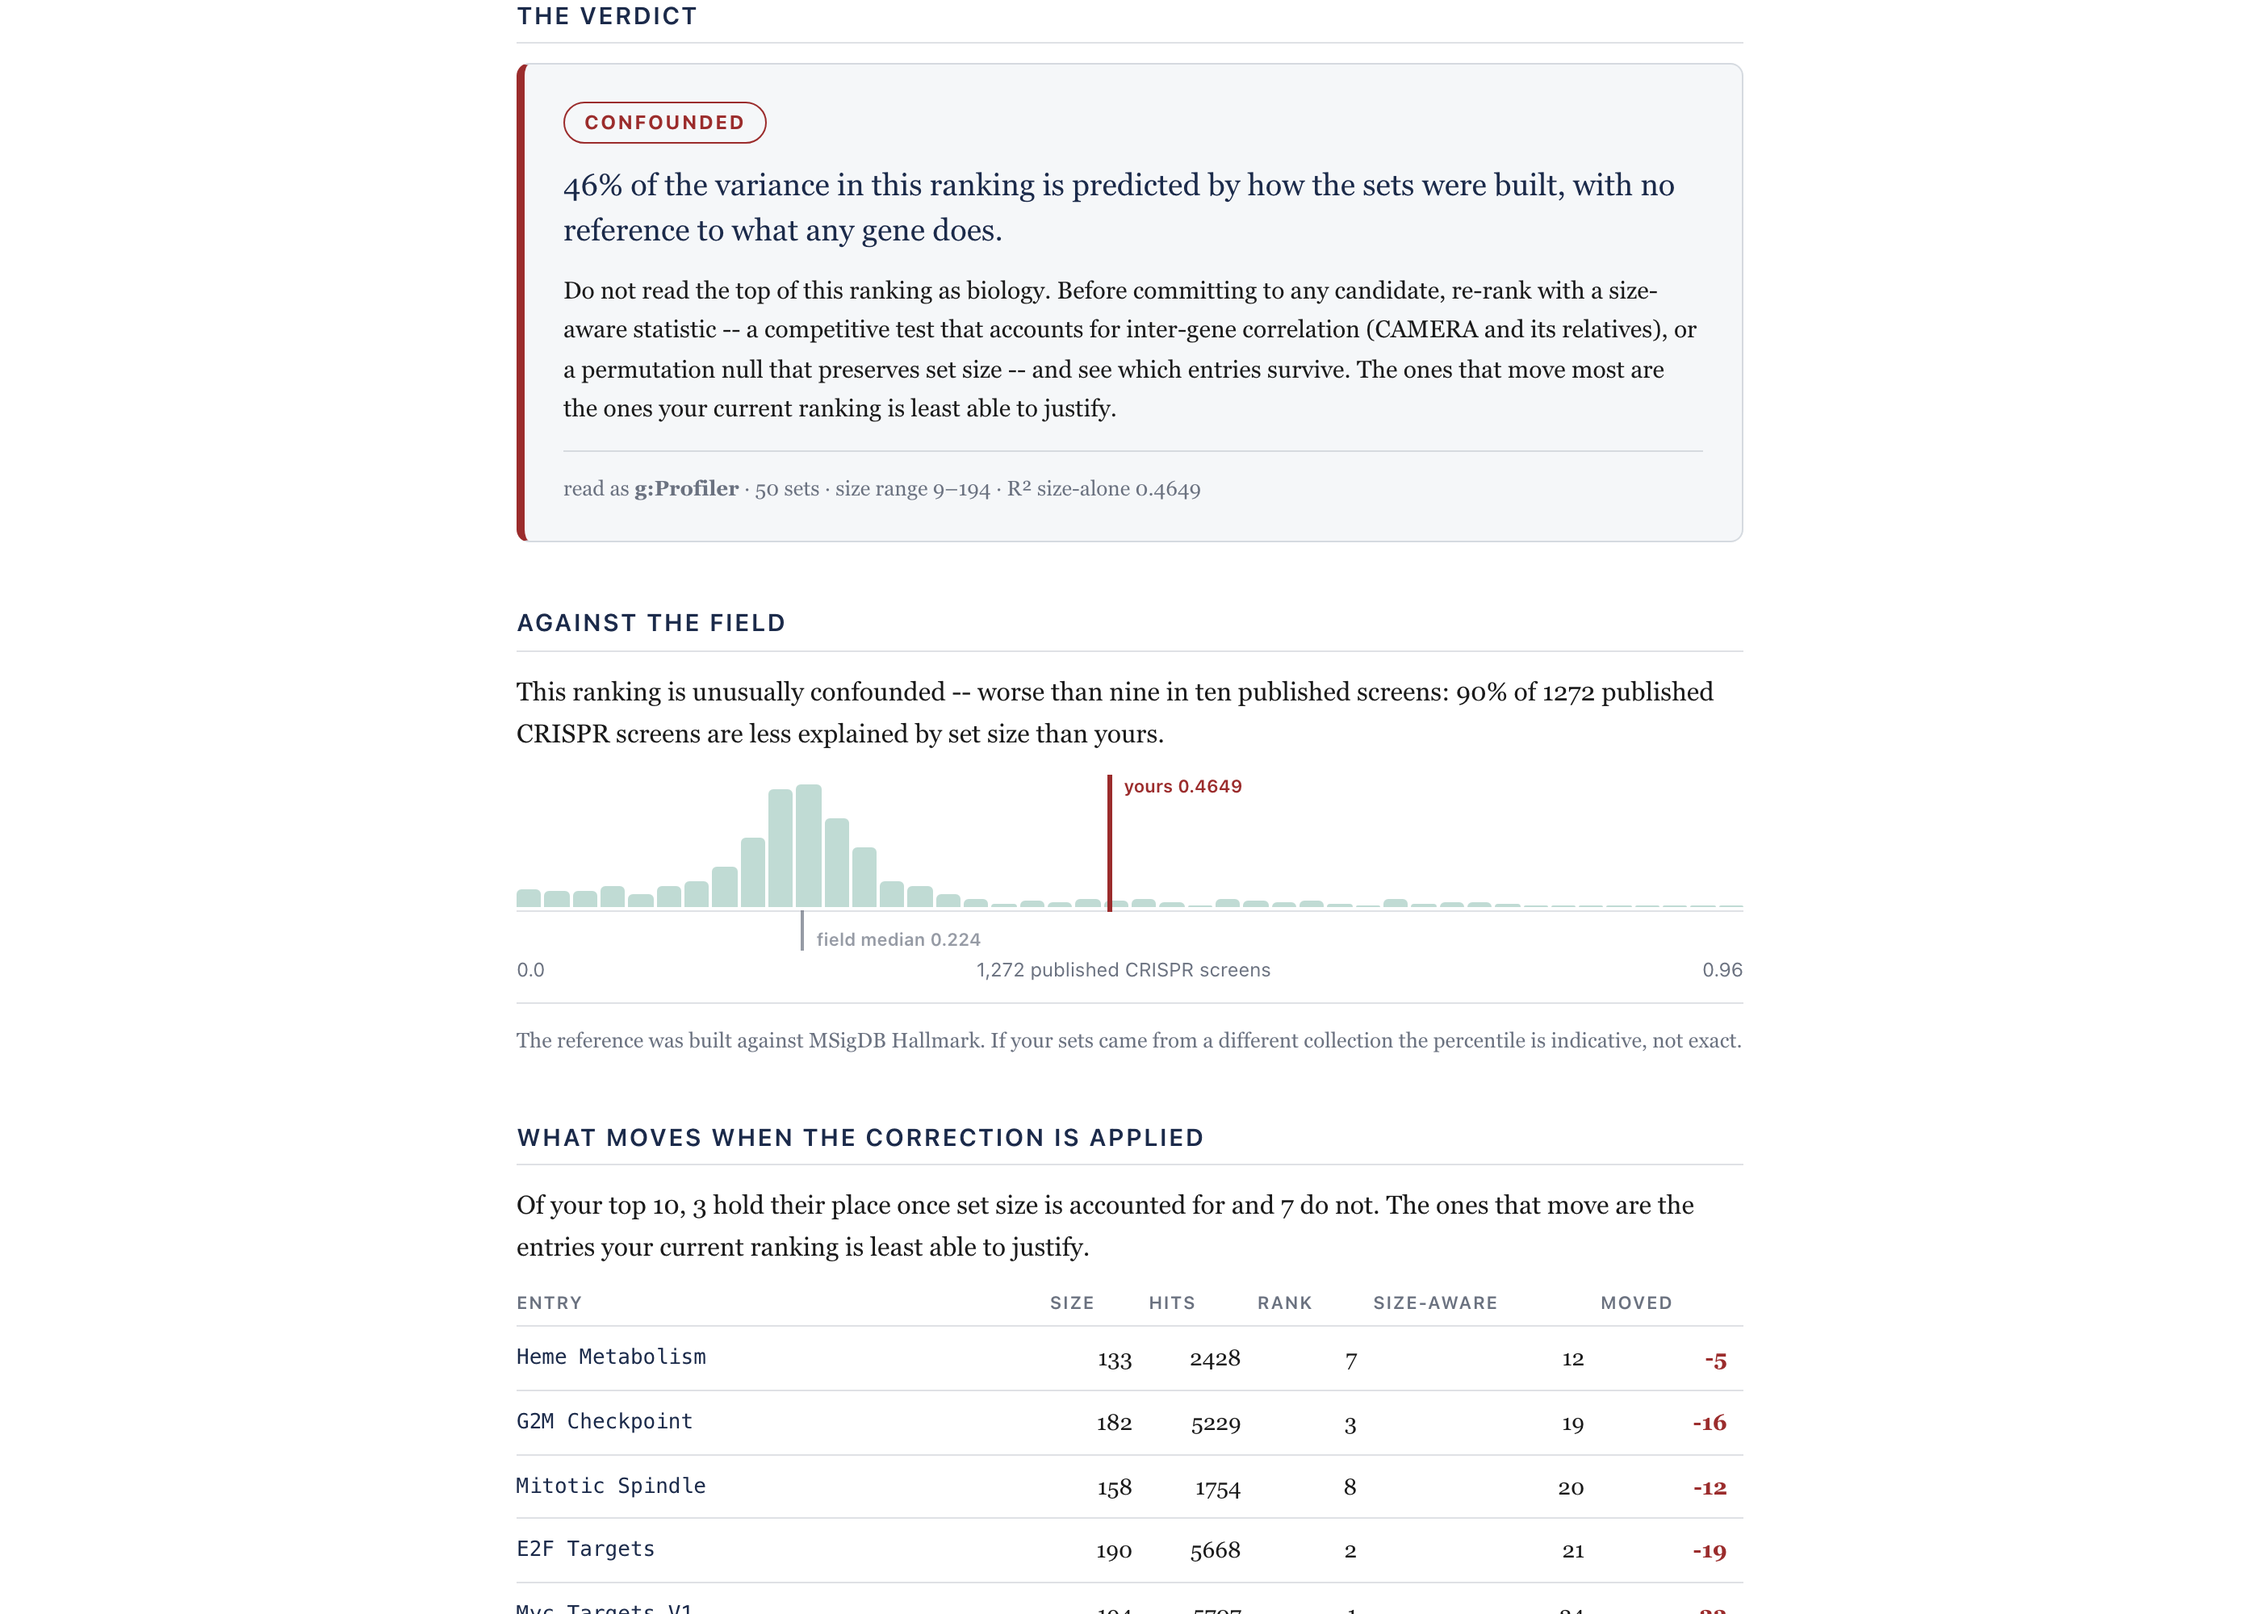
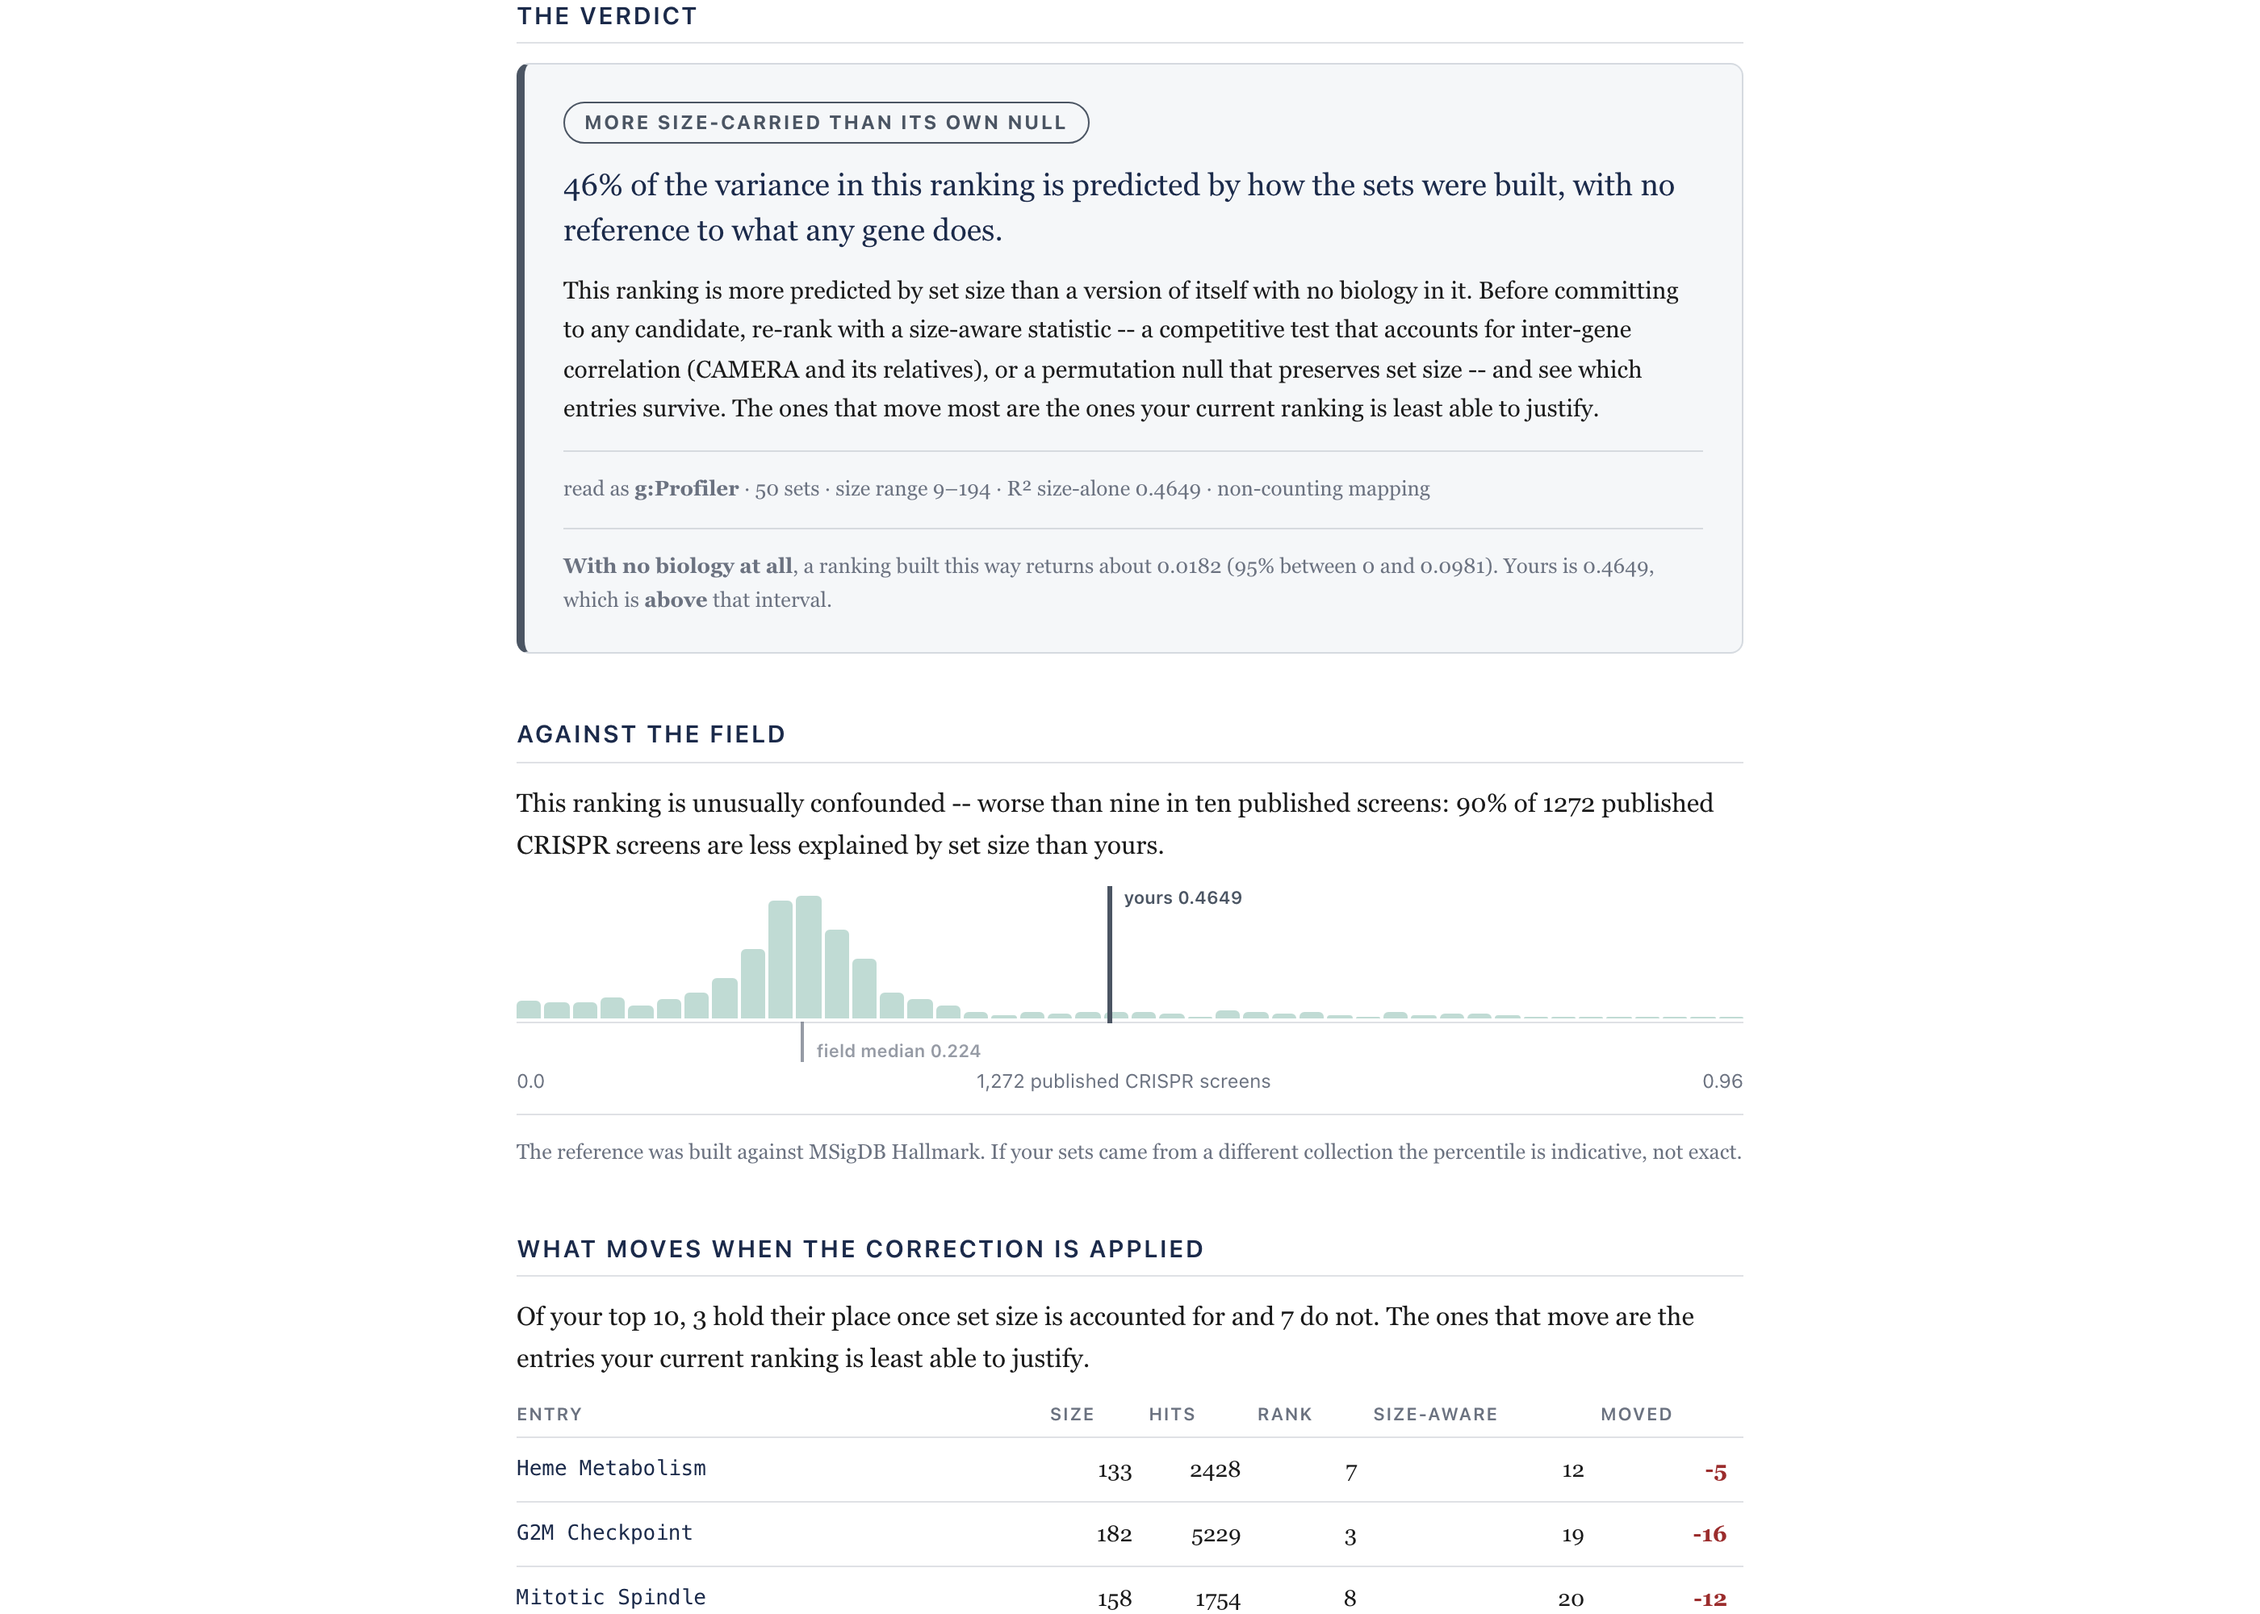
fix: stale pre-2026-08-17 verdict wording in the top-screen transcript
core.py's own history (nulls.py, core.py comments) documents that the
verdict vocabulary went null-relative on 2026-08-17, replacing fixed
R^2 bands (CONFOUNDED / PARTIALLY CONFOUNDED / NOT SIZE-DOMINATED) with
MORE/LESS/INDISTINGUISHABLE-FROM-ITS-OWN-NULL. The README's top-screen
terminal transcript (the one place a stranger reads before deciding
whether to keep reading) never got updated and still showed the old
"CONFOUNDED:" verdict label three weeks later.

Verified against a real run this session: `denali audit` on
examples/example_gprofiler.csv (our own screen's data, the same input
the transcript is illustrating) prints "MORE SIZE-CARRIED THAN ITS OWN
NULL: 46% of the variance...", not "CONFOUNDED: 46%...". The 46%, 90%
and 1,272 numbers already in the transcript were already correct and
are untouched. Also fixed the same stale word in the Architecture
diagram's page-parity edge label, which now says what
tests/test_page_audit_parity.py actually asserts ("0.4649, above its
null") rather than the pre-2026-08-17 wording.

Also replaced docs/img/use-it.png: re-shot with the repo's own
`web/shoot.py` ("re-shoot the README's screenshots from the pages as
they are RIGHT NOW"), because the committed image showed the same
stale CONFOUNDED verdict badge and was missing the no-biology-null
interval paragraph the current audit.html renders. Re-ran shoot.py's
other target, docs/img/page-full.png, too; it differed from the
[…]

diff --git a/README.md b/README.md
@@ -26,8 +26,8 @@ No column renaming. It reads **ten formats** as-is — g:Profiler, DAVID, cluste
 What comes back is a verdict, a percentile against **1,272 published screens**, and a correction:
 
 ```
-CONFOUNDED: 46% of the variance in this ranking is predicted by how the sets
-were built, with no reference to what any gene does.
+MORE SIZE-CARRIED THAN ITS OWN NULL: 46% of the variance in this ranking is
+predicted by how the sets were built, with no reference to what any gene does.
 
 AGAINST THE FIELD
 This ranking is unusually confounded — worse than nine in ten published
@@ -370,7 +370,7 @@ flowchart TB
   DA --> DR["denali rerank<br/>applies the correction · 3 of our top 10 hold"]
   PKG --> WASM["audit.html 🌐<br/>the package itself in WebAssembly<br/>your file, your browser, nothing uploaded"]
   PKG -.->|"anti-drift test: audit() on the frozen<br/>data must return 0.4649 or CI fails"| FROZEN
-  WASM -.->|"page-parity test: the inlined source must<br/>reproduce 0.4649 CONFOUNDED or CI fails"| PKG
+  WASM -.->|"page-parity test: the inlined source must<br/>reproduce 0.4649, above its null, or CI fails"| PKG
 
   PKG --> BREADTH["results/breadth/<br/>3 domains that are not gene sets<br/>regions · metabolites · microbiome"]
   BREADTH --> NULL["null_baselines.py<br/>the no-biology value per mapping"]
